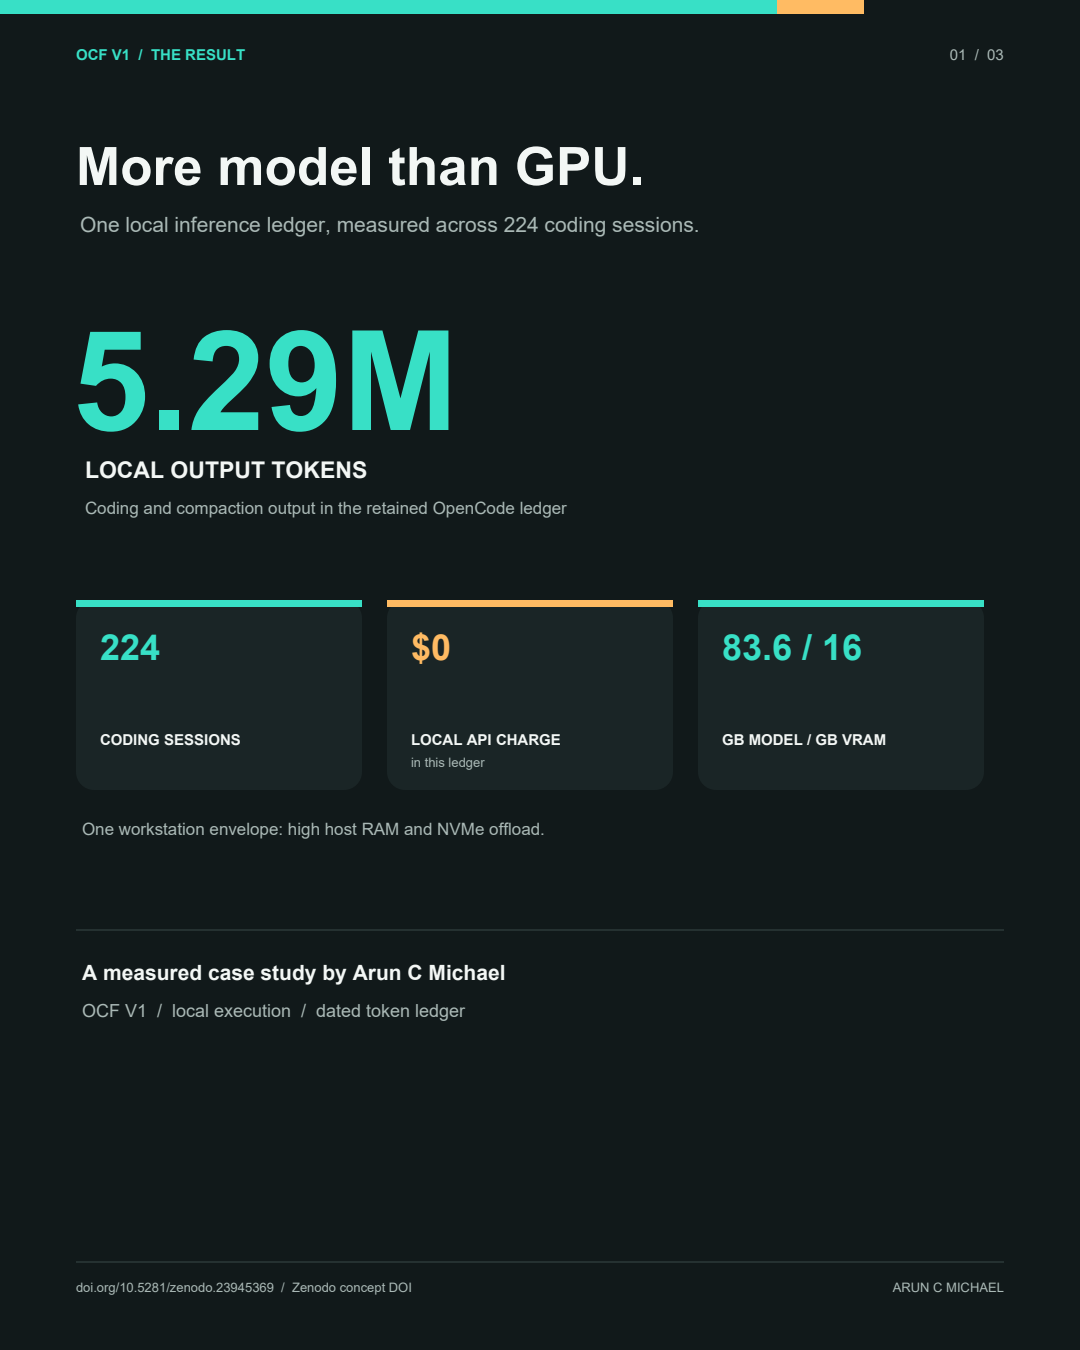
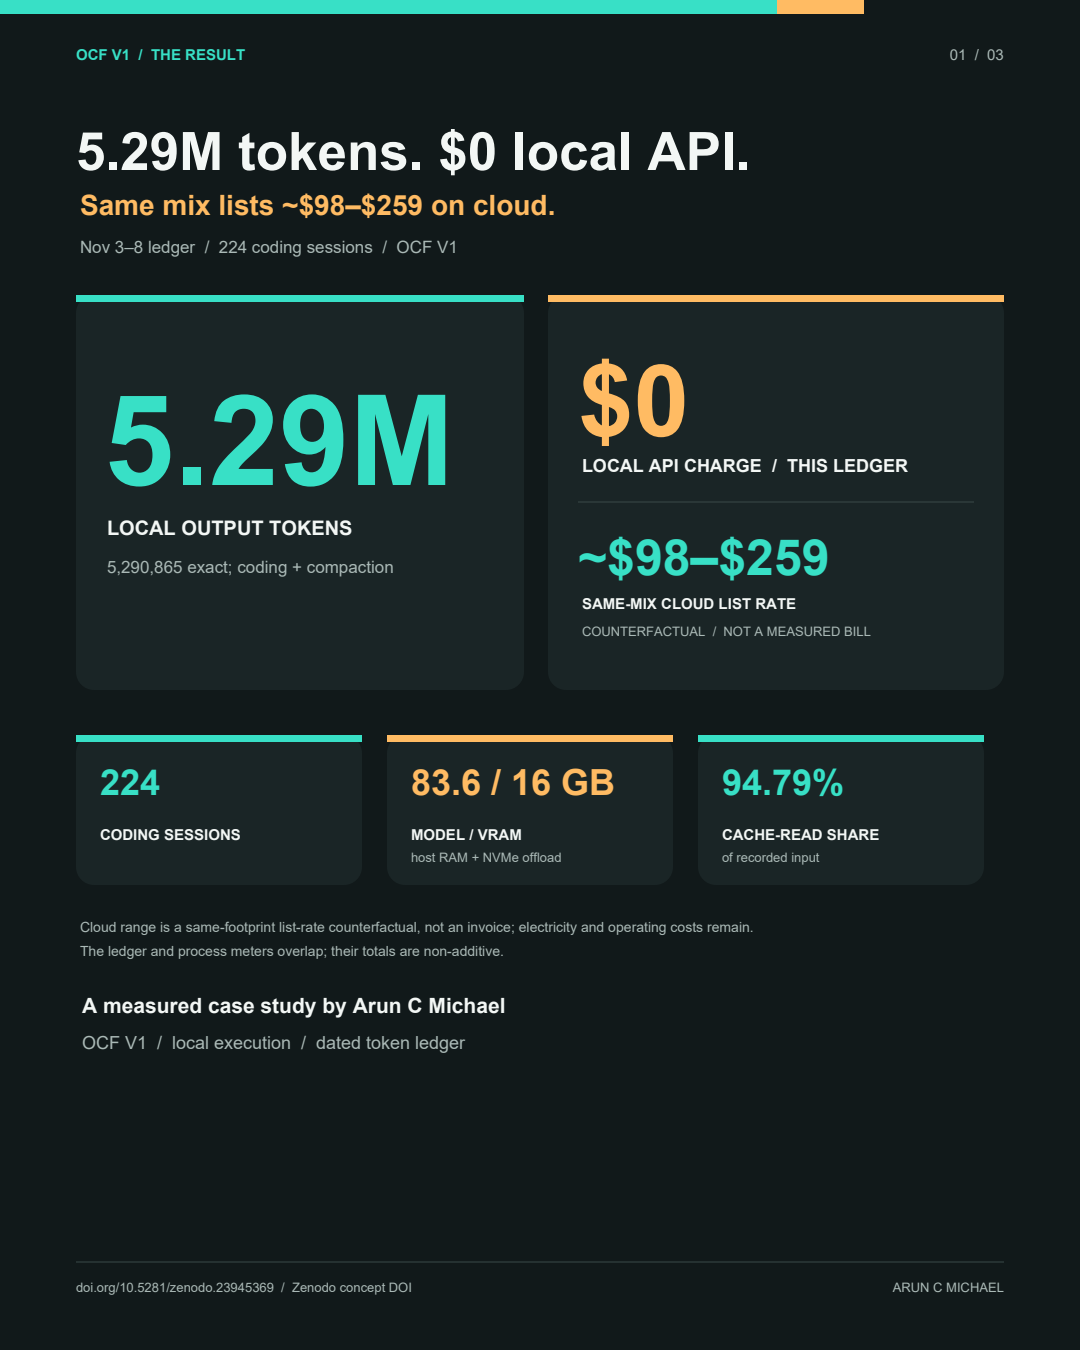
Refresh LinkedIn carousel hook with dollar savings; drop Luna from comparison set.
Page 1 now leads with 5.29M tokens, $0 local API, and ~$98-$259 same-mix cloud list-rate band.

diff --git a/launch/build_linkedin_carousel.py b/launch/build_linkedin_carousel.py
@@ -149,7 +149,8 @@ def add_cloud_chart(path: Path, scenarios: list[tuple[str, float]]) -> None:
 
     labels = [name for name, _ in scenarios]
     values = [value for _, value in scenarios]
-    bars = ax.barh(labels, values, color=[TEAL, TEAL, TEAL, AMBER, AMBER], height=0.56)
+    bar_colors = [TEAL] * max(0, len(values) - 1) + [AMBER]
+    bars = ax.barh(labels, values, color=bar_colors, height=0.56)
     ax.invert_yaxis()
     ax.set_xlim(0, 300)
     ax.xaxis.set_major_locator(MultipleLocator(50))
@@ -211,12 +212,14 @@ def build_pdf(seed: dict) -> None:
         raise ValueError("Seed output total does not equal coding plus compaction.")
 
     scenarios = [
-        ("Codex GPT-6 Luna", float(headline["luna"])),
-        ("Codex GPT-6.1 Sol", float(headline["sol"])),
         ("Cursor Composer 2.5", float(headline["composer"])),
+        ("Codex GPT-6.1 Sol", float(headline["sol"])),
         ("Cursor GPT-5.3 Codex", float(headline["codex_cursor"])),
         ("Cursor Grok 4.7", float(headline["grok"])),
     ]
+    cloud_floor = min(value for _, value in scenarios)
+    cloud_ceiling = max(value for _, value in scenarios)
+    savings_band = "~${:.0f}–${:.0f}".format(cloud_floor, cloud_ceiling)
     with tempfile.TemporaryDirectory(prefix="linkedin-carousel-") as temp_dir:
         temp = Path(temp_dir)
         output_chart = temp / "output-split.png"
@@ -229,40 +232,83 @@ def build_pdf(seed: dict) -> None:
         c.setAuthor("Arun C Michael")
         c.setSubject("Three-page summary of the supplied OCF V1 token economics seed")
 
-        # Page 1: result.
+        # Page 1: token and dollar hook.
         draw_base(c, 1, "The result")
         set_font(c, "Helvetica-Bold", 53, WHITE)
-        c.drawString(76, 1165, "More model than GPU.")
-        set_font(c, "Helvetica", 21, MUTED)
-        c.drawString(80, 1118, "One local inference ledger, measured across 224 coding sessions.")
-        set_font(c, "Helvetica-Bold", 139, TEAL)
-        c.drawString(72, 920, "{:.2f}M".format(output / 1_000_000))
-        set_font(c, "Helvetica-Bold", 23, WHITE)
-        c.drawString(85, 872, "LOCAL OUTPUT TOKENS")
+        c.drawString(76, 1180, "5.29M tokens. $0 local API.")
+        set_font(c, "Helvetica-Bold", 28, AMBER)
+        c.drawString(80, 1135, "Same mix lists {} on cloud.".format(savings_band))
         set_font(c, "Helvetica", 17, MUTED)
-        c.drawString(85, 836, "Coding and compaction output in the retained OpenCode ledger")
+        c.drawString(80, 1097, "Nov 3–8 ledger  /  224 coding sessions  /  OCF V1")
 
-        card_y, card_h, card_w, gap = 560, 190, 286, 25
+        # Twin hero panels give token volume and the list-rate comparison equal weight.
+        hero_y, hero_h = 660, 395
+        left_x, left_w = 76, 448
+        right_x, right_w = 548, 456
+        for x, width in ((left_x, left_w), (right_x, right_w)):
+            c.setFillColor(HexColor(PANEL))
+            c.roundRect(x, hero_y, width, hero_h, 18, stroke=0, fill=1)
+        c.setFillColor(HexColor(TEAL))
+        c.rect(left_x, hero_y + hero_h - 7, left_w, 7, stroke=0, fill=1)
+        c.setFillColor(HexColor(AMBER))
+        c.rect(right_x, hero_y + hero_h - 7, right_w, 7, stroke=0, fill=1)
+
+        set_font(c, "Helvetica-Bold", 126, TEAL)
+        c.drawString(left_x + 28, 865, "{:.2f}M".format(output / 1_000_000))
+        set_font(c, "Helvetica-Bold", 20, WHITE)
+        c.drawString(left_x + 31, 815, "LOCAL OUTPUT TOKENS")
+        set_font(c, "Helvetica", 17, MUTED)
+        c.drawString(left_x + 31, 777, "{:,} exact; coding + compaction".format(output))
+
+        set_font(c, "Helvetica-Bold", 100, AMBER)
+        c.drawString(right_x + 30, 914, "${:,.0f}".format(float(headline["local_api"])))
+        set_font(c, "Helvetica-Bold", 18, WHITE)
+        c.drawString(right_x + 34, 878, "LOCAL API CHARGE  /  THIS LEDGER")
+        c.setStrokeColor(HexColor(GRID))
+        c.setLineWidth(1)
+        c.line(right_x + 30, 848, right_x + right_w - 30, 848)
+        set_font(c, "Helvetica-Bold", 50, TEAL)
+        c.drawString(right_x + 30, 775, savings_band)
+        set_font(c, "Helvetica-Bold", 15, WHITE)
+        c.drawString(right_x + 34, 741, "SAME-MIX CLOUD LIST RATE")
+        set_font(c, "Helvetica", 13, MUTED)
+        c.drawString(right_x + 34, 714, "COUNTERFACTUAL  /  NOT A MEASURED BILL")
+
+        card_y, card_h, card_w, gap = 465, 150, 286, 25
         draw_card(c, 76, card_y, card_w, card_h, str(sessions), "coding sessions", TEAL)
-        draw_card(c, 76 + card_w + gap, card_y, card_w, card_h, "$0", "local API charge", AMBER, "in this ledger")
+        draw_card(
+            c,
+            76 + card_w + gap,
+            card_y,
+            card_w,
+            card_h,
+            "83.6 / 16 GB",
+            "model / VRAM",
+            AMBER,
+            "host RAM + NVMe offload",
+        )
         draw_card(
             c,
             76 + 2 * (card_w + gap),
             card_y,
             card_w,
             card_h,
-            "83.6 / 16",
-            "GB model / GB VRAM",
+            "{:.2f}%".format(cache_pct),
+            "cache-read share",
             TEAL,
+            "of recorded input",
         )
-        set_font(c, "Helvetica", 17, MUTED)
-        c.drawString(82, 515, "One workstation envelope: high host RAM and NVMe offload.")
-        c.setStrokeColor(HexColor(GRID))
-        c.line(76, 420, 1004, 420)
+        set_font(c, "Helvetica", 14, MUTED)
+        c.drawString(
+            80,
+            418,
+            "Cloud range is a same-footprint list-rate counterfactual, not an invoice; electricity and operating costs remain.",
+        )
+        c.drawString(80, 394, "The ledger and process meters overlap; their totals are non-additive.")
         set_font(c, "Helvetica-Bold", 21, WHITE)
-        c.drawString(82, 370, "A measured case study by Arun C Michael")
+        c.drawString(82, 337, "A measured case study by Arun C Michael")
         set_font(c, "Helvetica", 18, MUTED)
-        c.drawString(82, 333, "OCF V1  /  local execution  /  dated token ledger")
+        c.drawString(82, 301, "OCF V1  /  local execution  /  dated token ledger")
         c.showPage()
 
         # Page 2: output split and same-footprint cloud prices.
@@ -270,7 +316,7 @@ def build_pdf(seed: dict) -> None:
         set_font(c, "Helvetica-Bold", 48, WHITE)
         c.drawString(76, 1195, "Where the numbers land.")
         set_font(c, "Helvetica", 18, MUTED)
-        c.drawString(80, 1157, "One output ledger; five list-rate cloud counterfactuals.")
+        c.drawString(80, 1157, "One output ledger; four public list-rate counterfactuals ({}).".format(savings_band))
 
         set_font(c, "Helvetica-Bold", 22, WHITE)
         c.drawString(82, 1088, "Output split  /  5,290,865 total")

diff --git a/launch/08-linkedin-carousel-brief.md b/launch/08-linkedin-carousel-brief.md
@@ -9,8 +9,8 @@ Upload the PDF as a LinkedIn document carousel, or upload the three page PNGs (`
 
 ## Page-by-page
 
-1. **The result.** Lead with 5.29M local output tokens and 224 coding sessions. Show the $0 local API charge and the 83.6 GB model / 16 GB VRAM hardware envelope. The small qualifier names host RAM and NVMe offload so the page does not imply the full model resides in GPU memory.
-2. **The graphs.** Compare coding output with compaction output, then show the five cloud list-rate counterfactuals. Keep the $0 local API and 94.79% cache-read callouts visible. The graph labels identify the prices as counterfactuals, not bills.
-3. **Links and how to read.** Give clickable links to the repository, v1.2.0 release, Zenodo concept DOI and record, full token report, and paper Section 5.7. A closing note says the cloud comparison is not an invoice, the measurement views are non-additive, and the DOI identifies the Zenodo concept record.
+1. **The result.** Open with “5.29M tokens. $0 local API.” and “Same mix lists ~$98-$259 on cloud.” Give the token total and the local API charge equal visual weight beside the same-footprint cloud list-rate counterfactual. Keep the 224-session date context, 83.6 GB model / 16 GB VRAM envelope, and the small qualifier that the comparison is not an invoice and excludes electricity and other operating costs. State that the ledger and process meters are non-additive.
+2. **The graphs.** Compare coding output with compaction output, then show the four public cloud list-rate counterfactuals: Composer, Sol, Cursor GPT-5.3 Codex, and Grok. Keep the ~$98-$259 band, $0 local API, and 94.79% cache-read callouts visible. The graph labels identify the prices as counterfactuals, not bills.
+3. **Links and how to read.** Give clickable links to the repository, v1.2.0 release, Zenodo concept DOI and record, full token report, and paper Section 5.7. A closing note says the cloud comparison is not an invoice or quality comparison, the measurement views are non-additive, and the DOI identifies the Zenodo concept record.
 
 The figures and wording come from launch/_linkedin_seed.json. The builder embeds charts in the PDF and also writes the three page PNGs listed above for native LinkedIn image upload.

diff --git a/launch/07-linkedin-post.md b/launch/07-linkedin-post.md
@@ -1,12 +1,12 @@
 # LinkedIn post
 
-5.29 million output tokens. 224 coding sessions. A $0 local API line item.
+5.29M tokens. $0 local API. Same mix lists ~$98-$259 on cloud.
 
-Across the November 3–8 snapshot, the retained OpenCode ledger recorded 5,290,865 output tokens — 5,090,841 coding plus 200,024 compaction — across 224 coding sessions on one workstation.
+Across the Nov 3-8 snapshot, the retained OpenCode ledger recorded 5,290,865 output tokens - 5,090,841 coding plus 200,024 compaction - across 224 coding sessions on one workstation.
 
 The case study ran an 83.6 GB model with 16 GB of GPU memory, using host RAM and NVMe offload. This describes one measured workstation configuration, not a general hardware guarantee.
 
-The cloud figures price the same recorded token mix at listed rates: Codex GPT-6 Luna $8.43, Cursor Composer 2.5 $98.16, Codex GPT-6.1 Sol $131.32, Cursor GPT-5.3 Codex $175.34, Cursor Grok 4.7 $259.48. They are counterfactuals, not invoices or quality comparisons. The $0 figure is the local API charge in this ledger; it does not mean the workstation has no operating cost.
+The cloud figures price the same recorded token mix at listed rates: Composer $98.16, Sol $131.32, Cursor GPT-5.3 Codex $175.34, and Grok $259.48. The ~$98-$259 band is a same-footprint list-rate counterfactual, not a measured invoice or quality comparison. The $0 figure is the local API charge in this ledger; electricity and other workstation operating costs are not included.
 
 Cache reads covered 94.79% of recorded input. v1.2.0 is the economics continuation; the v1.0.x paper releases remain. Swipe the carousel, then read the whitepaper (Section 5.7) and the full token report, linked below.
 
@@ -16,7 +16,7 @@ Cache reads covered 94.79% of recorded input. v1.2.0 is the economics continuati
 - 224 coding sessions
 - 94.79% cache-read share of recorded input
 - $0 local API charge
-- $8.43–$259.48 same-footprint cloud list-rate counterfactuals
+- ~$98-$259 same-footprint cloud list-rate counterfactual (Composer-Grok comparison set)
 
 **Links**
 
